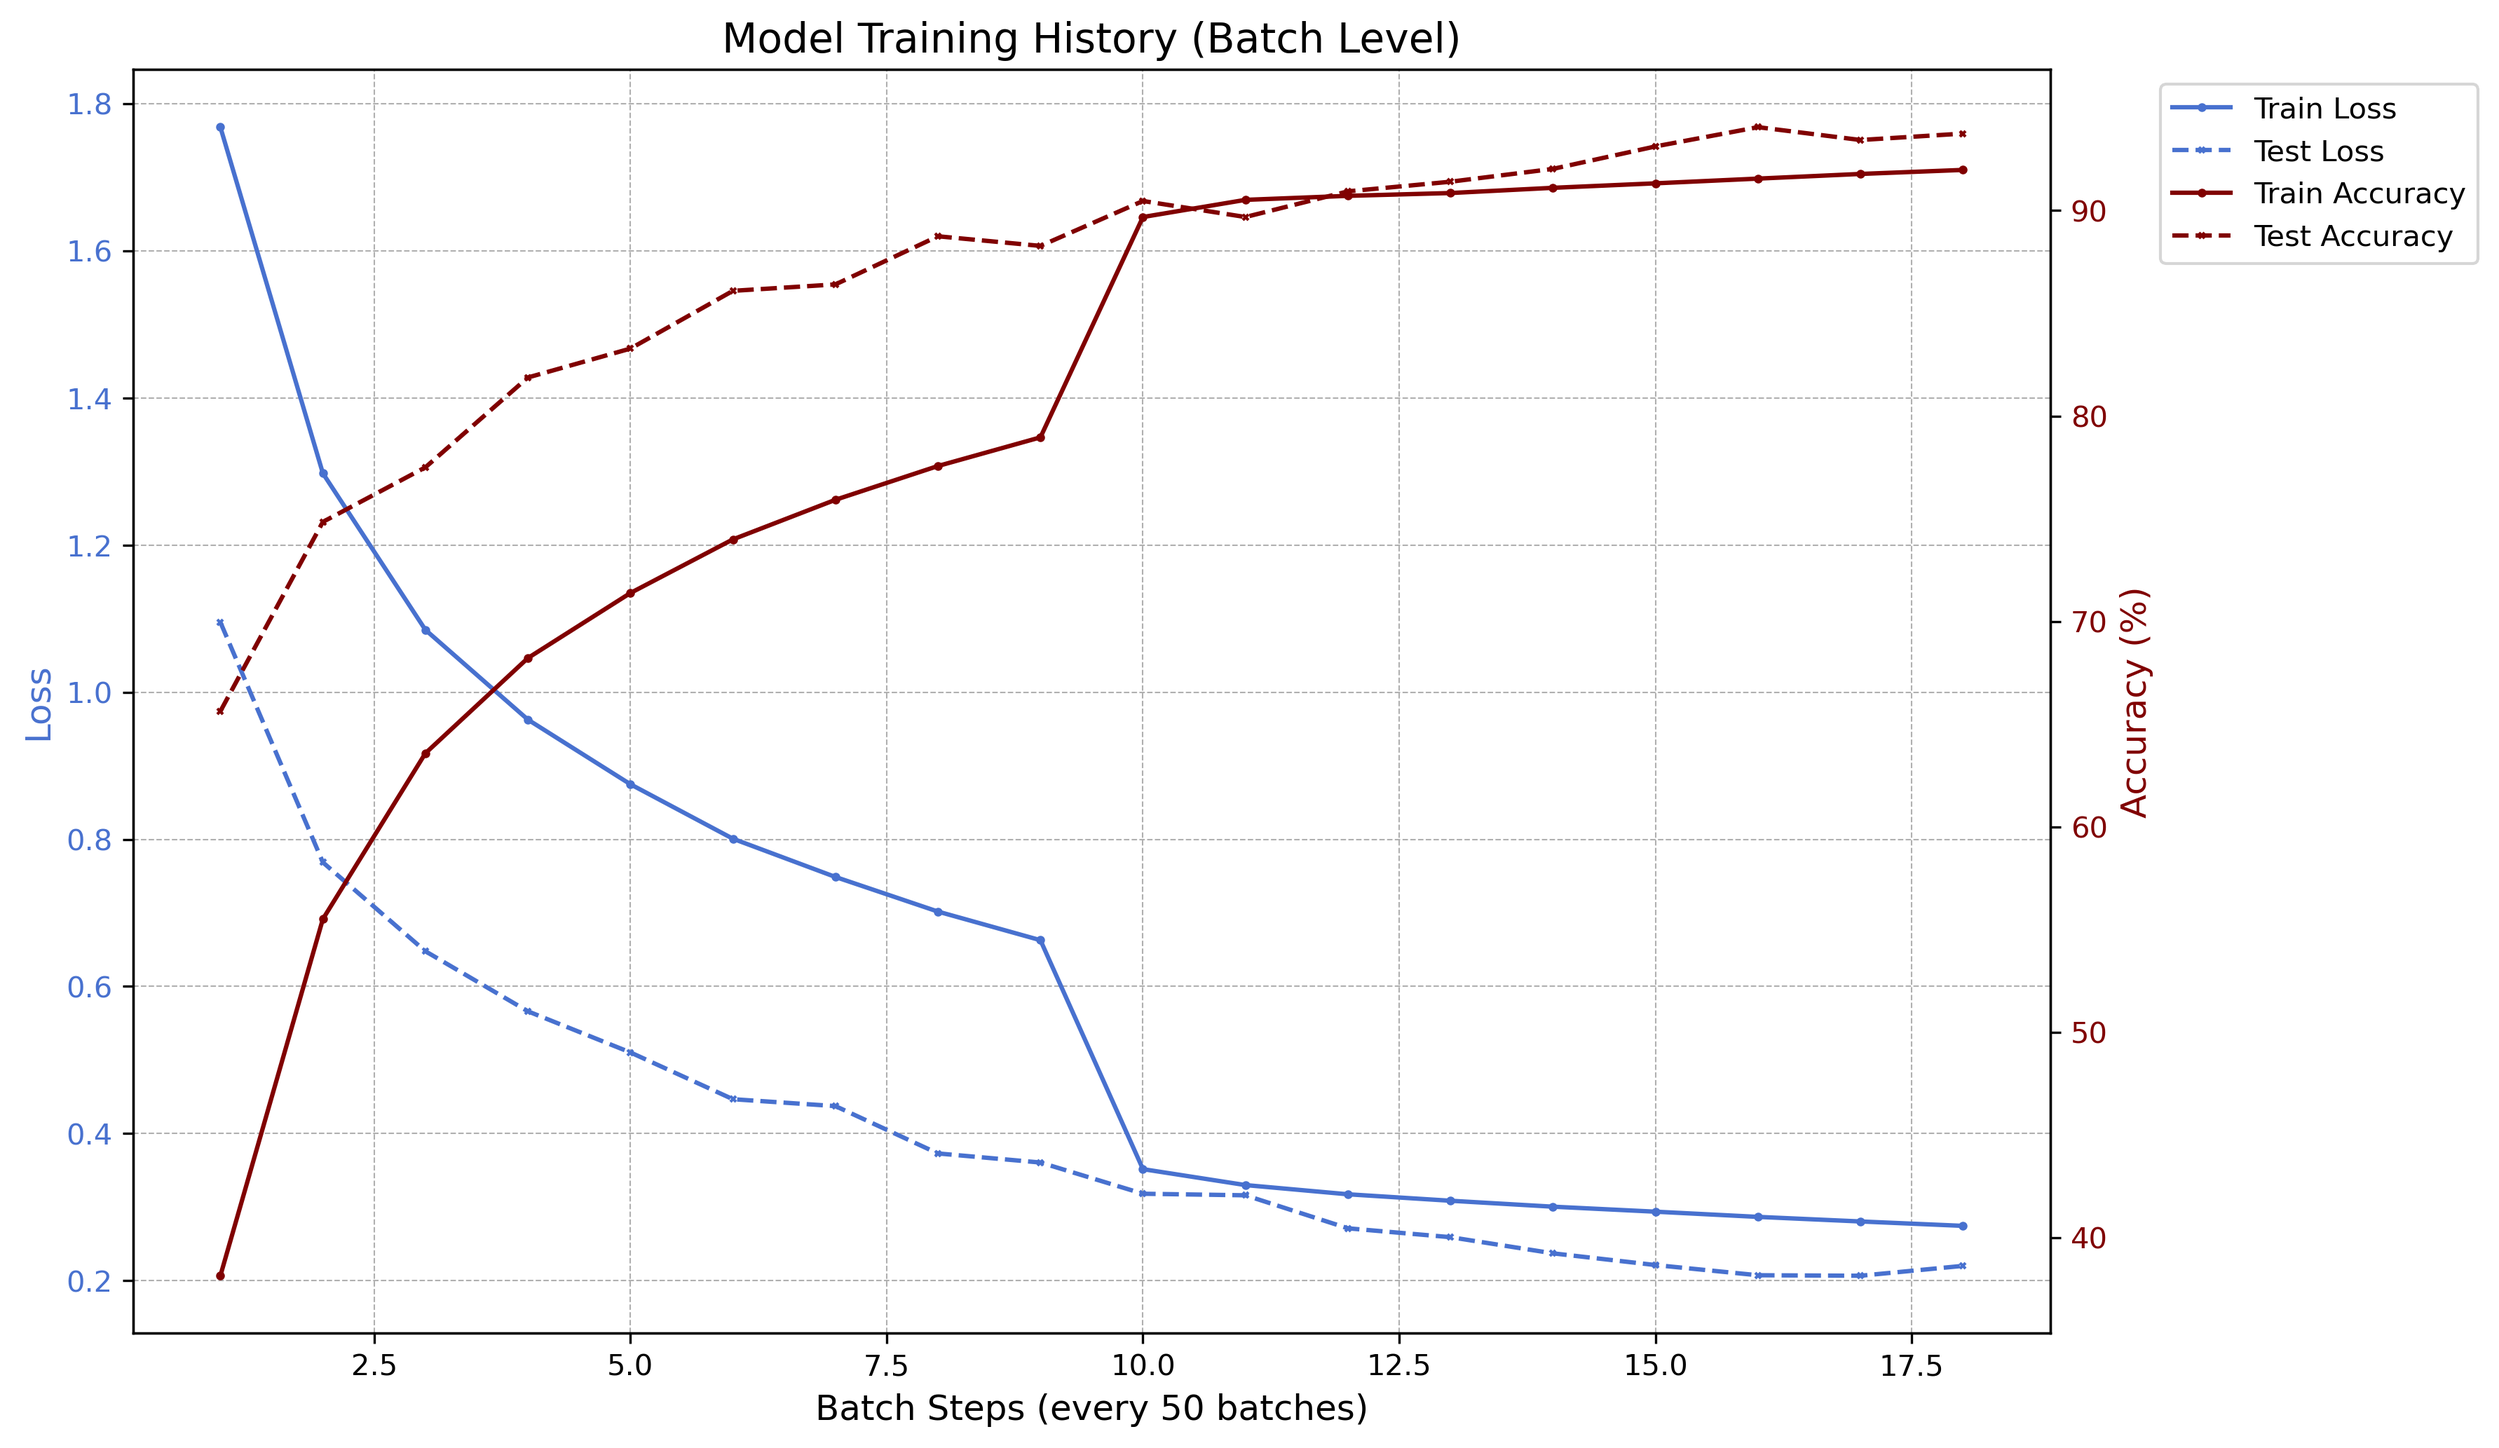
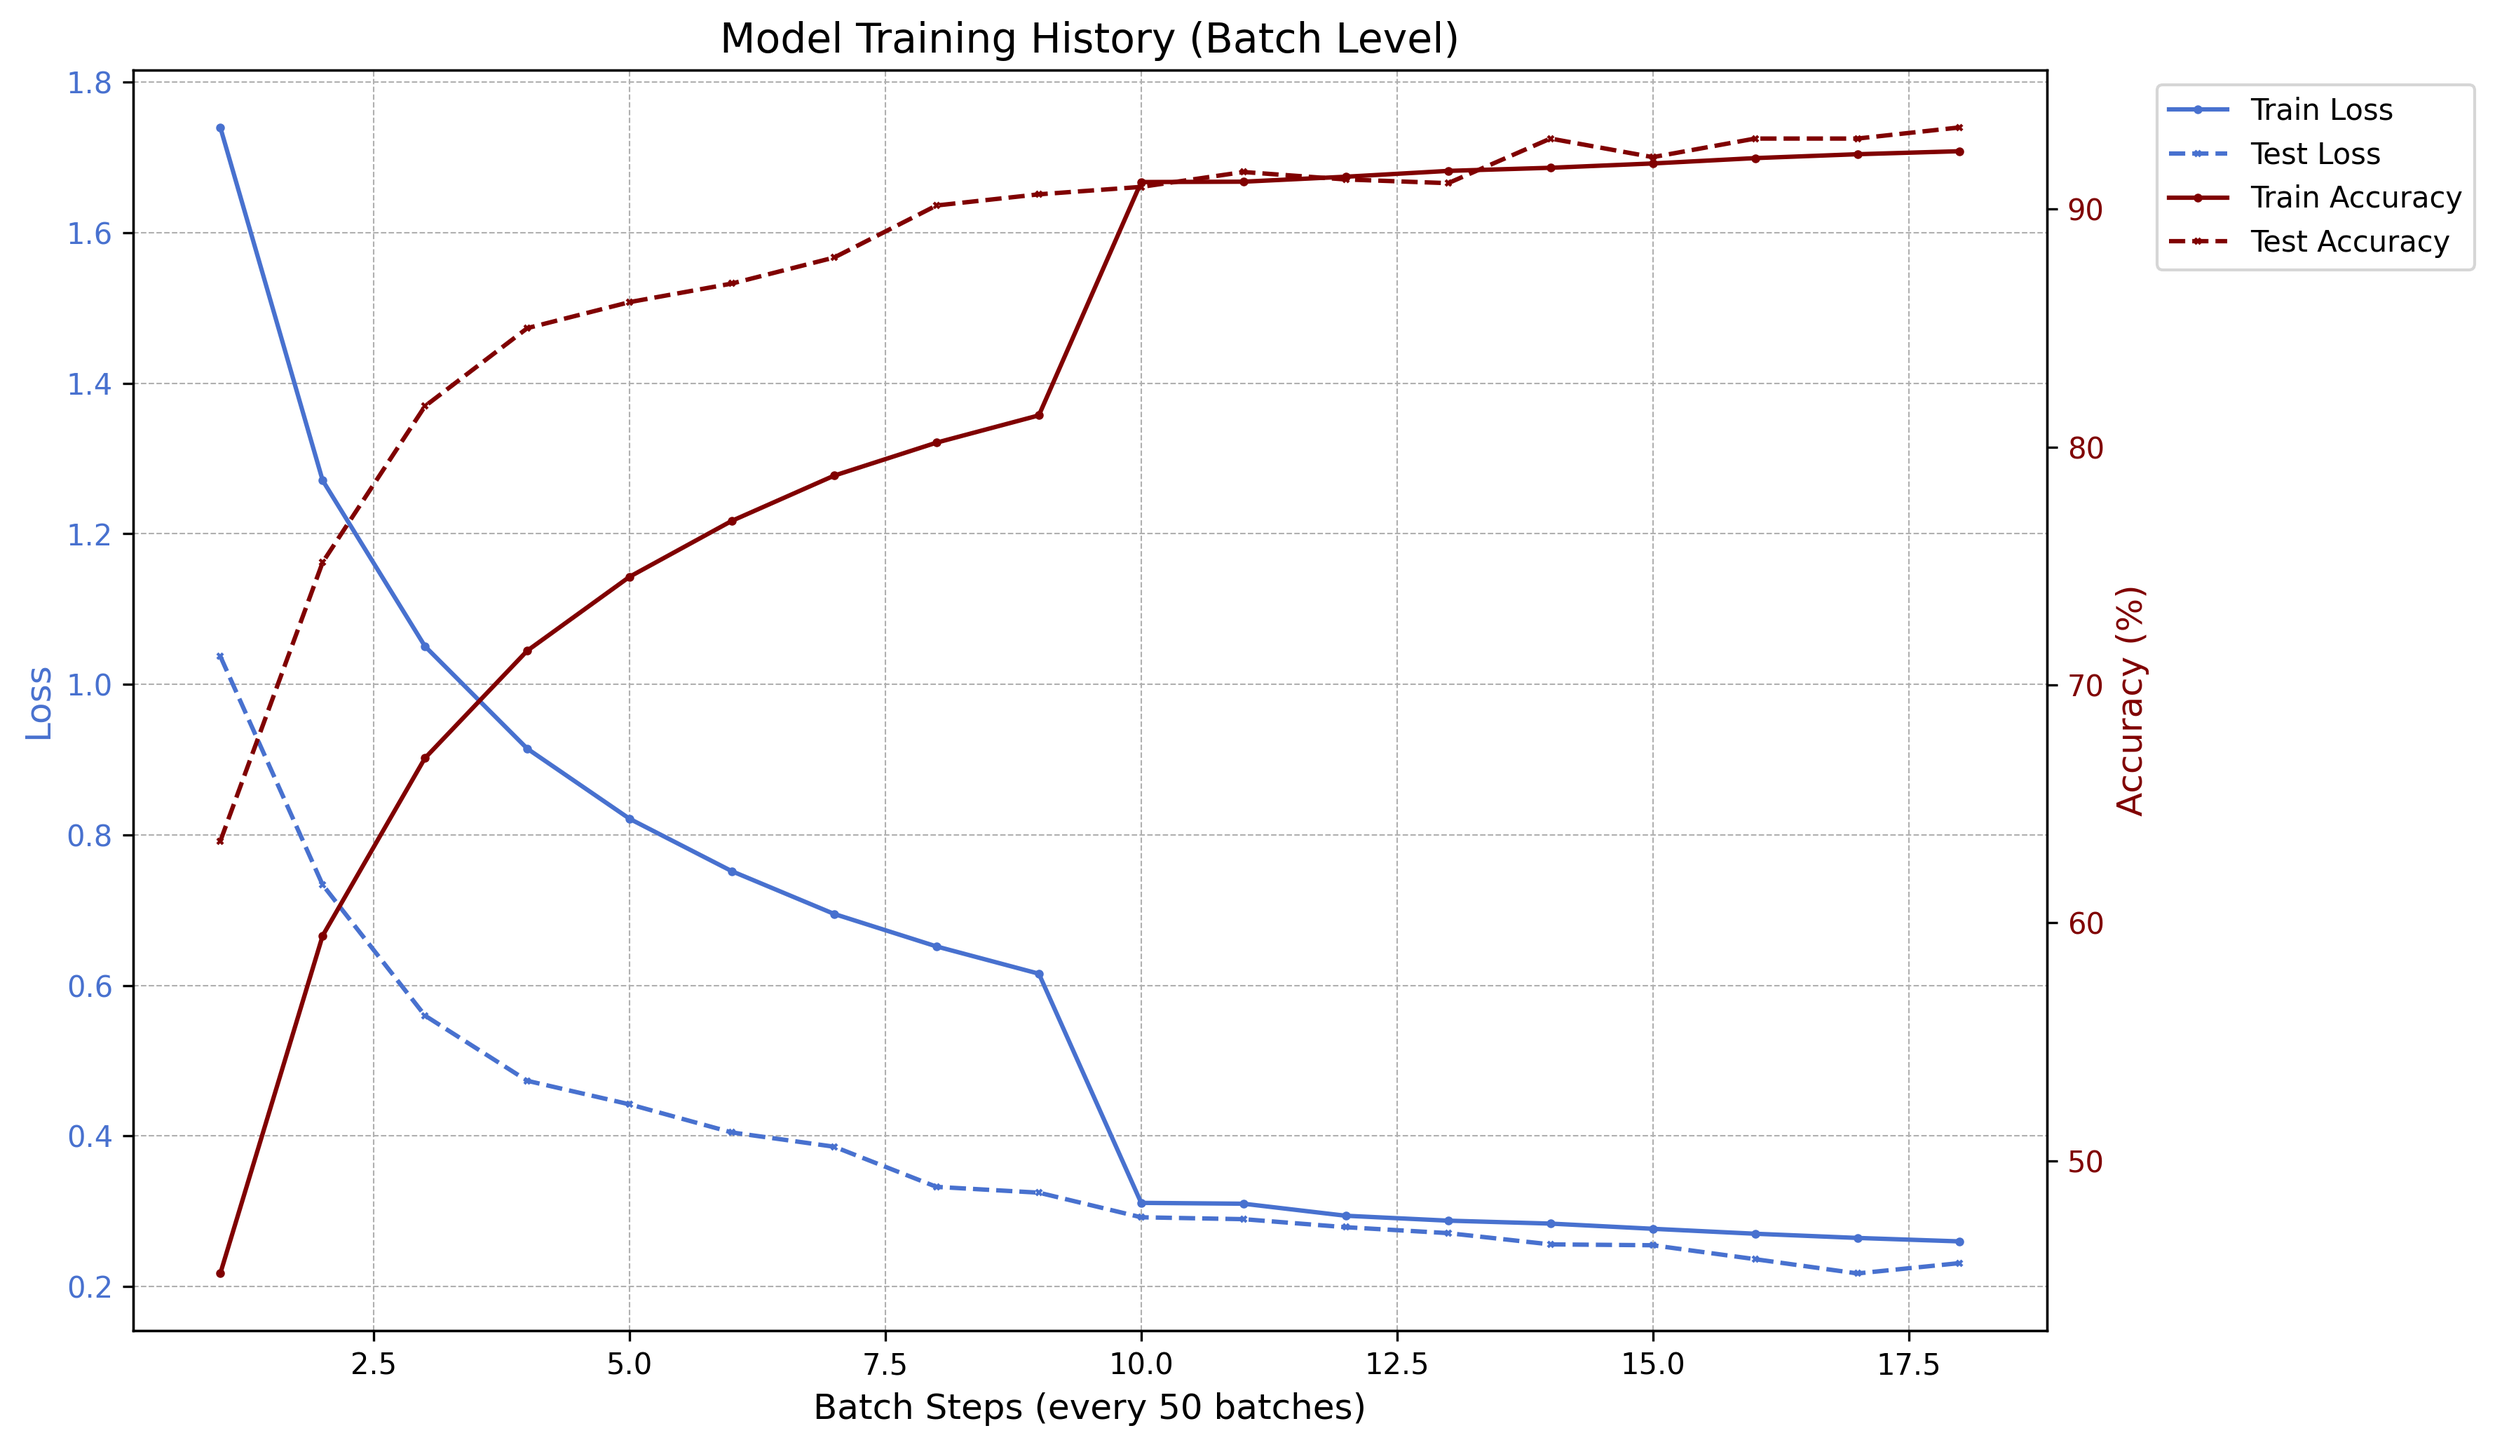
retrain mpl mnist

diff --git a/models/MNIST_ensemble/train_mlp.py b/models/MNIST_ensemble/train_mlp.py
@@ -6,10 +6,10 @@ import numpy as np
 import time
 from train_mnist_utils import get_mnist_train_and_test_loaders, train, evaluate_model, plot_training_history, plot_batch_training_history, log_final_model_stats, count_parameters
 
-class SimpleMLP(nn.Module):
+class FeedforwardMNIST(nn.Module):
     """Simple 4-layer MLP for MNIST classification"""
     def __init__(self, num_classes=10, hidden_size=48):
-        super(SimpleMLP, self).__init__()
+        super(FeedforwardMNIST, self).__init__()
         
         # Input size for MNIST: 28 * 28 = 784
         input_size = 28 * 28
@@ -51,8 +51,8 @@ def main():
     
     print(f"Using device: {device}")
 
-    model = SimpleMLP().to(device)
-    print(f"Simple MLP parameters: {count_parameters(model):,}")
+    model = FeedforwardMNIST().to(device)
+    print(f"FeedforwardMNIST parameters: {count_parameters(model):,}")
     
     train_loader, test_loader = get_mnist_train_and_test_loaders()
     criterion = torch.nn.CrossEntropyLoss()
